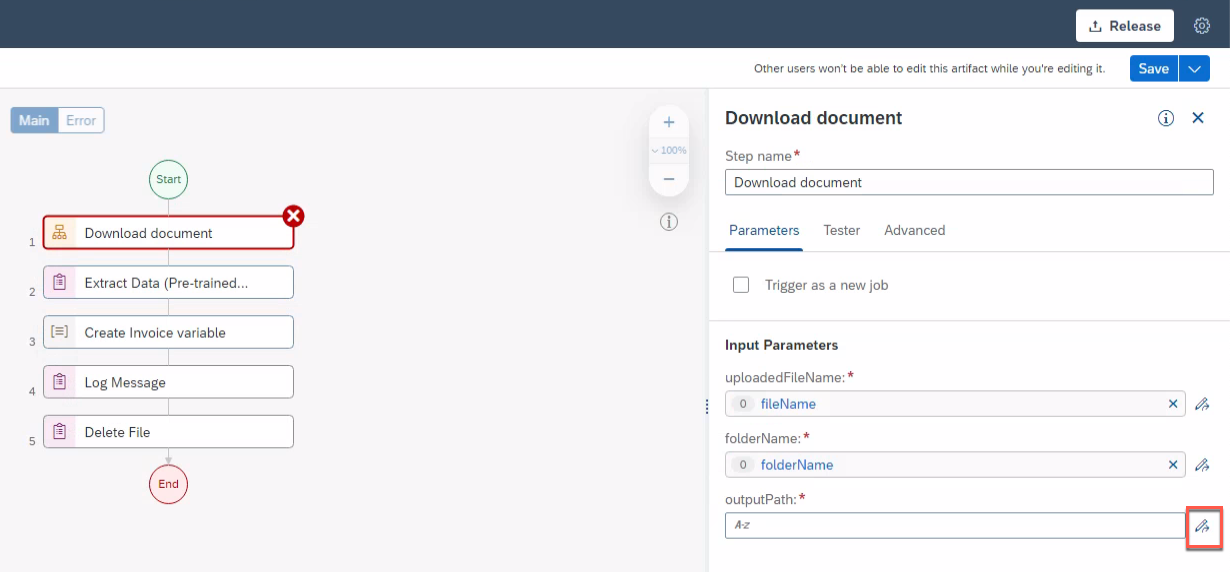
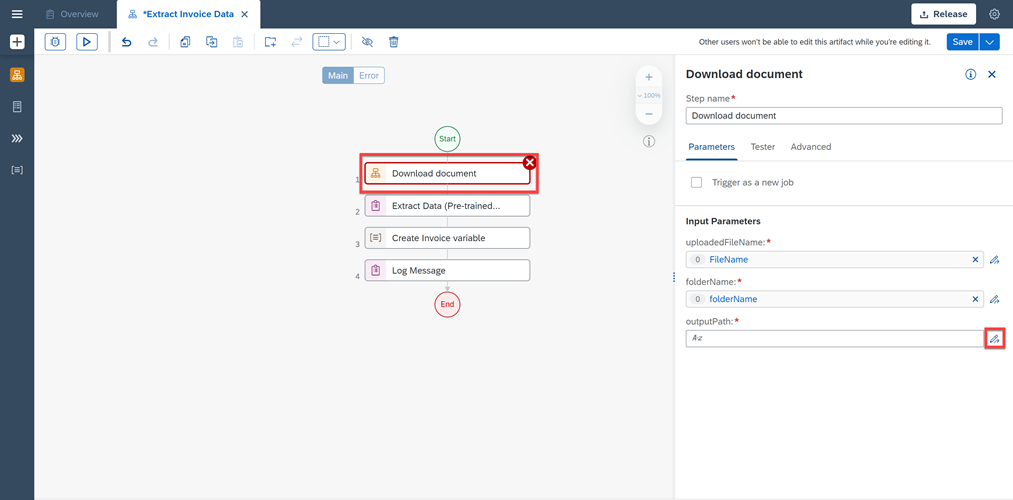
Update Readme

diff --git a/exercises/1_CreateAppGyverProject/README.md b/exercises/1_CreateAppGyverProject/README.md
@@ -298,7 +298,7 @@ The overall formula will look like the following: <br><pre>appVars.name+TIMESTAM
 Click on <b>SAVE</b>.
 <br><br>![Submit](images/75.png)
 
-12. Drag and drop <b>Create record</b> logic component into the logic canvas and connect the nodes with <b>Set app variable</b>component. In the <b>PROPERTIES</b> tab of the logic component check if the <b>Resource name</b> is <b>Documentupload</b>. Open the binding menu of <b>Record properties</b>.<br><br>
+12. Drag and drop <b>Create record</b> logic component into the logic canvas and connect the nodes with <b>Set app variable</b> component. In the <b>PROPERTIES</b> tab of the logic component check if the <b>Resource name</b> is <b>Documentupload</b>. Open the binding menu of <b>Record properties</b>.<br><br>
 ![Submit](images/76.png)
 
 13. In the binding menu, select <b>Object with properties</b>.<br><br>

diff --git a/exercises/5_ModifyAutomation/Readme.md b/exercises/5_ModifyAutomation/Readme.md
@@ -83,21 +83,7 @@ The pre-built automation extracts the data from the Invoice document using AI.
 
     ![05](./images/021.png)
 
-16. Under **Tools**, search for the activity **Delete File**, drag and drop it into the canvas, below **Log Message** activity.
-
-    ![05](./images/022.png)
-
-17. Select the activity **Delete File**.
-
-    ![05](./images/095.png)
-
-18. In the **Delete File** side panel, edit the **Input Parameters** as follows:
-- Map **fileName** with **fileName**
-- Under **remotePath** type: C:\Users\Public\
-
-    ![05](./images/023a.png)
-
-19. **Save** your work.
+15. **Save** your work.
 
 ## Map Automation parameters to Process parameters <a name="mapParameters"></a>
 
